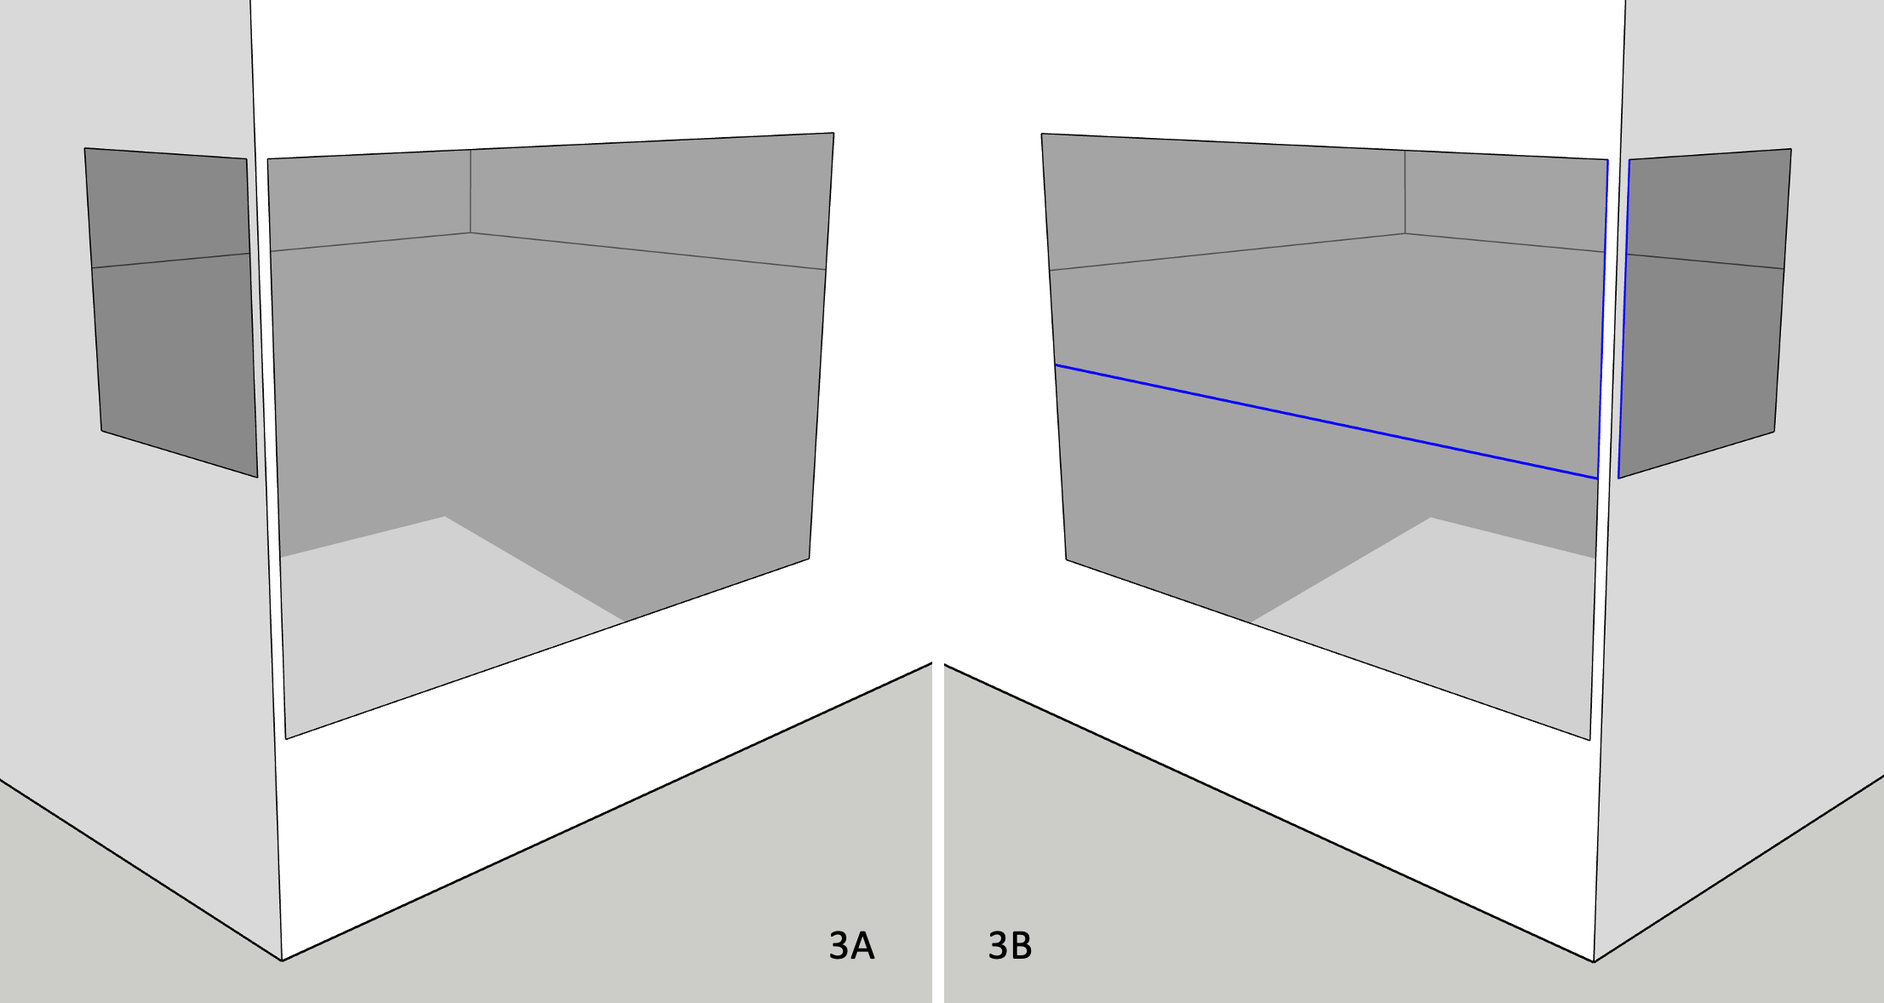
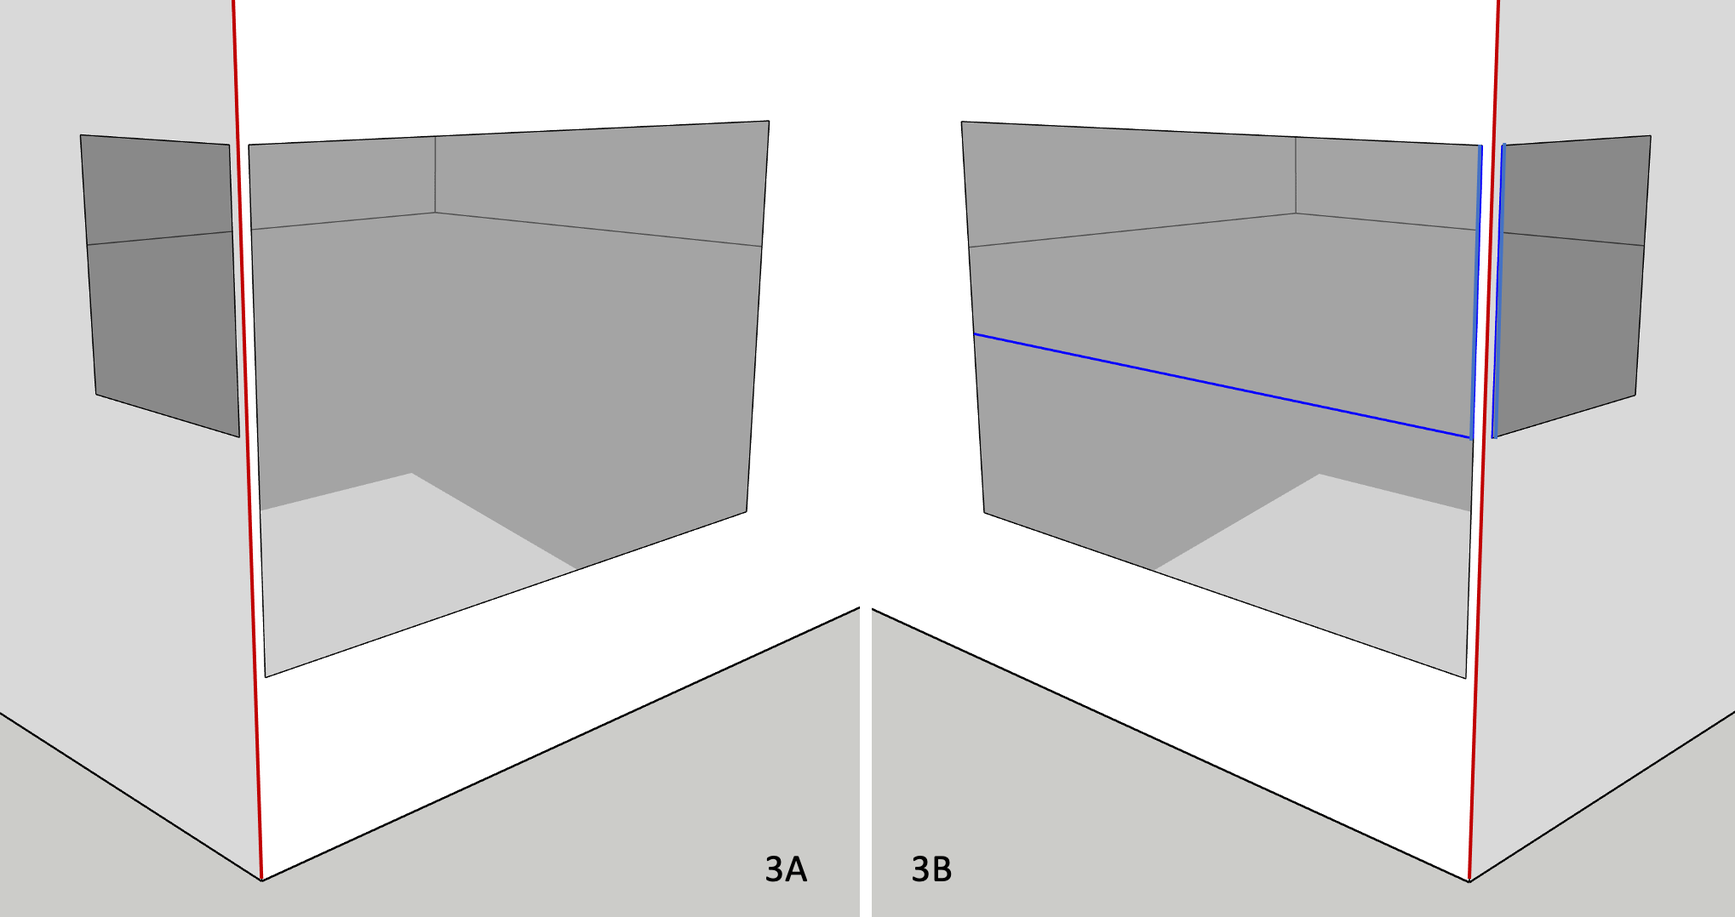
Refines corner figures (Guide)

diff --git a/_site/pages/subs.html b/_site/pages/subs.html
@@ -4,7 +4,7 @@
     <meta charset='utf-8'>
     <meta name="viewport" content="width=device-width, initial-scale=1">
     <meta http-equiv="X-UA-Compatible" content="IE=edge">
-    <link rel="stylesheet" href="/assets/css/style.css?v=02316b4165960c88b139b584b66d646e5b88f25c">
+    <link rel="stylesheet" href="/assets/css/style.css?v=18f43275b4282ef2217a71a03dd4cccfd7f92dd3">
     <link rel="stylesheet" type="text/css" href="/assets/css/print.css" media="print">
     <!--[if lt IE 9]>
     <script src="//html5shiv.googlecode.com/svn/trunk/html5.js"></script>
@@ -100,27 +100,27 @@
 
 <p>A shared edge between two <em>sub surfaces</em> at a corner (e.g. the single vertical edge highlighted in blue in <strong>Figure 2A</strong>) is also tagged by TBD as a (mild) “transition”. Again, any additional heat loss resulting from <em>corner mullions</em> should preferably be factored in NFRC fenestration rating procedures, and thus shouldn’t <em>derate</em> host wall constructions.</p>
 
-<p>In Figure 2A, Topolys <em>breaks</em> its own copy of the original OpenStudio corner edge into 3x distinct vertical segments:</p>
+<p>In Figure 2A, Topolys <em>breaks</em> its own copy of the original, full wall-height OpenStudio corner edge into 3x distinct, vertically-aligned segments:</p>
 
 <ul>
-  <li>1x “corner” edge <strong>above</strong> both windows</li>
   <li>1x “transition” edge, shared <strong>between</strong> both windows (in blue)</li>
+  <li>1x “corner” edge <strong>above</strong> both windows</li>
   <li>1x “corner” edge <strong>below</strong> both windows</li>
 </ul>
 
-<p>By default, any <em>sub surface</em> edge defined within 10 mm of another <em>sub surface</em> edge (or a host surface edge, e.g. a corner) is <em>merged</em> in Topolys as a single, shared edge. If gaps between the corner edge illustrated in <strong>Figure 2B</strong> and both <em>nearby</em> window jambs (on either side, highlighted in blue) are 10 mm wide, then all 3x <em>nearby</em> edges (1x <em>broken</em> corner segment + 2x jambs) would be modelled in Topolys as a single edge (as in Figure 2A). There is no difference between the application of Topolys’ built-in tolerances and what’s illustrated in Figure 2A, even if all 3x edges aren’t perfectly aligned in the OpenStudio model (as in Figure 2B).</p>
+<p>By default, any <em>sub surface</em> edge defined within 10 mm of another <em>sub surface</em> edge (or a host surface edge, e.g. a corner) is <em>merged</em> in Topolys as a single, shared edge. If gaps between the corner edge (highlighted in red in <strong>Figure 2B</strong>) and both <em>nearby</em> window jambs (on either side, highlighted in blue) are 10 mm wide in OpenStudio, then all 3x <em>nearby</em> edges (1x <em>broken</em> corner segment + 2x jambs) would be modelled in Topolys as a single edge (as in Figure 2A). There is no difference between the application of Topolys’ built-in tolerances and what’s illustrated in Figure 2A, even if all 3x edges aren’t perfectly aligned in the OpenStudio model (as in Figure 2B).</p>
 
 <p><img src="../assets/images/corner1.png" alt="Corner Windows" title="Corner Windows" /></p>
 
 <p>When such gaps exceed Topolys’ built-in tolerances (e.g. 25 mm in Figure 2B), TBD instead considers a nearby <em>sub surface</em> edge (e.g. along a corner) as a fenestration “jamb” edge, even though a 25 mm gap between jamb and corner edges makes little sense from a construction perspective. Such gaps often occur as modelling artefacts (often inadvertently) in either legacy OpenStudio models or in those imported from 3rd-party applications. This automated switch, from (mild) “transition” to “jamb” edge types, necessarily means more heat loss from thermal bridging (vs Figure 2A). TBD provides users a <em>sub surface</em> <strong>proximity tolerance</strong> (see <a href="./settings.html" title="TBD settings">menu options</a>) as an optional means to override this default behaviour. If, for instance, a user sets a <em>proximity tolerance</em> of 50 mm (or rather 0.050 m), TBD ignores the aforementioned 25 mm gaps and sets the 2x <em>sub surface</em> jamb edges near the corner as (mild) “transitions” (both edges highlighted in blue in Figure 2B).</p>
 
-<p>There is no difference when <em>derating</em> host wall surfaces, from fenestration perimeters alone, in either figures 2A or 2B. However, the <em>proximity tolerance</em> does not reset the corner edge in Figure 2B as a (mild) “transition”. The corner edge continues uninterrupted, spanning the full wall height - one should expect additional heat loss from the “corner” edge in Figure 2B (vs Figure 2A). This can be corrected by adjusting the “corner” <em>psi</em> factor in TBD - a practical tweak, yet somewhat finicky.</p>
+<p>There is no difference when <em>derating</em> host wall surfaces, from fenestration perimeters alone, in either figures 2A or 2B. However, the <em>proximity tolerance</em> does not reset the corner edge (in red in Figure 2B) as a (mild) “transition”. The corner edge continues uninterrupted, spanning the full wall height - one should expect additional heat loss from the “corner” edge in Figure 2B (vs Figure 2A). This can be corrected by adjusting the “corner” <em>psi</em> factor in TBD - a practical tweak, yet somewhat finicky.</p>
 
 <p>TBD matches edges this way by comparing <em>origin</em> and <em>terminal</em> vertices of any pair of <em>nearby</em> edges. TBD does not apply a <em>proximity tolerance</em> when <em>sub surface</em> edges are mismatched as in <strong>Figure 3A</strong>.</p>
 
 <p><img src="../assets/images/corner2.png" alt="Near corner windows" title="Near corner windows" /></p>
 
-<p>This can be corrected in OpenStudio by splitting for instance the larger window into two smaller (yet <em>aligned</em>) windows (which adds a new horizontal “transition” edge in blue, shown in <strong>Figure 3B</strong>). If the gaps between both <em>upper</em> window jambs and corner edge are within the user-set <em>proximity tolerance</em>, then both nearby window jambs will also be reset as (mild) “transitions” (both vertical edges are highlighted in blue in Figure 3B). Note that the corner edge continues uninterrupted, spanning the full wall height in both figures 3A and 3B, just as in Figure 2B.</p>
+<p>This can be corrected in OpenStudio by splitting for instance the larger window into two smaller (yet <em>aligned</em>) windows (which adds a new horizontal “transition” edge in blue, shown in <strong>Figure 3B</strong>). If the gaps between both <em>upper</em> window jambs and corner edge are within the user-set <em>proximity tolerance</em>, then both nearby window jambs will also be reset as (mild) “transitions” (both vertical edges are highlighted in blue in Figure 3B). Note that the corner edge continues uninterrupted, spanning the full wall height (in red in both figures 3A and 3B, just as in Figure 2B).</p>
 
 <h3 id="multipliers">Multipliers</h3>
 

diff --git a/_site/index.html b/_site/index.html
@@ -4,7 +4,7 @@
     <meta charset='utf-8'>
     <meta name="viewport" content="width=device-width, initial-scale=1">
     <meta http-equiv="X-UA-Compatible" content="IE=edge">
-    <link rel="stylesheet" href="/assets/css/style.css?v=02316b4165960c88b139b584b66d646e5b88f25c">
+    <link rel="stylesheet" href="/assets/css/style.css?v=18f43275b4282ef2217a71a03dd4cccfd7f92dd3">
     <link rel="stylesheet" type="text/css" href="/assets/css/print.css" media="print">
     <!--[if lt IE 9]>
     <script src="//html5shiv.googlecode.com/svn/trunk/html5.js"></script>

diff --git a/_site/pages/custom.html b/_site/pages/custom.html
@@ -4,7 +4,7 @@
     <meta charset='utf-8'>
     <meta name="viewport" content="width=device-width, initial-scale=1">
     <meta http-equiv="X-UA-Compatible" content="IE=edge">
-    <link rel="stylesheet" href="/assets/css/style.css?v=02316b4165960c88b139b584b66d646e5b88f25c">
+    <link rel="stylesheet" href="/assets/css/style.css?v=18f43275b4282ef2217a71a03dd4cccfd7f92dd3">
     <link rel="stylesheet" type="text/css" href="/assets/css/print.css" media="print">
     <!--[if lt IE 9]>
     <script src="//html5shiv.googlecode.com/svn/trunk/html5.js"></script>

diff --git a/_site/pages/kiva.html b/_site/pages/kiva.html
@@ -4,7 +4,7 @@
     <meta charset='utf-8'>
     <meta name="viewport" content="width=device-width, initial-scale=1">
     <meta http-equiv="X-UA-Compatible" content="IE=edge">
-    <link rel="stylesheet" href="/assets/css/style.css?v=02316b4165960c88b139b584b66d646e5b88f25c">
+    <link rel="stylesheet" href="/assets/css/style.css?v=18f43275b4282ef2217a71a03dd4cccfd7f92dd3">
     <link rel="stylesheet" type="text/css" href="/assets/css/print.css" media="print">
     <!--[if lt IE 9]>
     <script src="//html5shiv.googlecode.com/svn/trunk/html5.js"></script>

diff --git a/_site/pages/launch.html b/_site/pages/launch.html
@@ -4,7 +4,7 @@
     <meta charset='utf-8'>
     <meta name="viewport" content="width=device-width, initial-scale=1">
     <meta http-equiv="X-UA-Compatible" content="IE=edge">
-    <link rel="stylesheet" href="/assets/css/style.css?v=02316b4165960c88b139b584b66d646e5b88f25c">
+    <link rel="stylesheet" href="/assets/css/style.css?v=18f43275b4282ef2217a71a03dd4cccfd7f92dd3">
     <link rel="stylesheet" type="text/css" href="/assets/css/print.css" media="print">
     <!--[if lt IE 9]>
     <script src="//html5shiv.googlecode.com/svn/trunk/html5.js"></script>

diff --git a/_site/pages/reports.html b/_site/pages/reports.html
@@ -4,7 +4,7 @@
     <meta charset='utf-8'>
     <meta name="viewport" content="width=device-width, initial-scale=1">
     <meta http-equiv="X-UA-Compatible" content="IE=edge">
-    <link rel="stylesheet" href="/assets/css/style.css?v=02316b4165960c88b139b584b66d646e5b88f25c">
+    <link rel="stylesheet" href="/assets/css/style.css?v=18f43275b4282ef2217a71a03dd4cccfd7f92dd3">
     <link rel="stylesheet" type="text/css" href="/assets/css/print.css" media="print">
     <!--[if lt IE 9]>
     <script src="//html5shiv.googlecode.com/svn/trunk/html5.js"></script>

diff --git a/_site/pages/settings.html b/_site/pages/settings.html
@@ -4,7 +4,7 @@
     <meta charset='utf-8'>
     <meta name="viewport" content="width=device-width, initial-scale=1">
     <meta http-equiv="X-UA-Compatible" content="IE=edge">
-    <link rel="stylesheet" href="/assets/css/style.css?v=02316b4165960c88b139b584b66d646e5b88f25c">
+    <link rel="stylesheet" href="/assets/css/style.css?v=18f43275b4282ef2217a71a03dd4cccfd7f92dd3">
     <link rel="stylesheet" type="text/css" href="/assets/css/print.css" media="print">
     <!--[if lt IE 9]>
     <script src="//html5shiv.googlecode.com/svn/trunk/html5.js"></script>

diff --git a/_site/pages/ua.html b/_site/pages/ua.html
@@ -4,7 +4,7 @@
     <meta charset='utf-8'>
     <meta name="viewport" content="width=device-width, initial-scale=1">
     <meta http-equiv="X-UA-Compatible" content="IE=edge">
-    <link rel="stylesheet" href="/assets/css/style.css?v=02316b4165960c88b139b584b66d646e5b88f25c">
+    <link rel="stylesheet" href="/assets/css/style.css?v=18f43275b4282ef2217a71a03dd4cccfd7f92dd3">
     <link rel="stylesheet" type="text/css" href="/assets/css/print.css" media="print">
     <!--[if lt IE 9]>
     <script src="//html5shiv.googlecode.com/svn/trunk/html5.js"></script>

diff --git a/_site/pages/ut.html b/_site/pages/ut.html
@@ -4,7 +4,7 @@
     <meta charset='utf-8'>
     <meta name="viewport" content="width=device-width, initial-scale=1">
     <meta http-equiv="X-UA-Compatible" content="IE=edge">
-    <link rel="stylesheet" href="/assets/css/style.css?v=02316b4165960c88b139b584b66d646e5b88f25c">
+    <link rel="stylesheet" href="/assets/css/style.css?v=18f43275b4282ef2217a71a03dd4cccfd7f92dd3">
     <link rel="stylesheet" type="text/css" href="/assets/css/print.css" media="print">
     <!--[if lt IE 9]>
     <script src="//html5shiv.googlecode.com/svn/trunk/html5.js"></script>

diff --git a/_site/pages/subs.md b/_site/pages/subs.md
@@ -34,25 +34,25 @@ _Frame & divider_ properties also allow outside and inside __reveals__ (i.e. _su
 
 A shared edge between two _sub surfaces_ at a corner (e.g. the single vertical edge highlighted in blue in __Figure 2A__) is also tagged by TBD as a (mild) "transition". Again, any additional heat loss resulting from _corner mullions_ should preferably be factored in NFRC fenestration rating procedures, and thus shouldn't _derate_ host wall constructions.  
 
-In Figure 2A, Topolys _breaks_ its own copy of the original OpenStudio corner edge into 3x distinct vertical segments:  
+In Figure 2A, Topolys _breaks_ its own copy of the original, full wall-height OpenStudio corner edge into 3x distinct, vertically-aligned segments:  
 
-- 1x "corner" edge __above__ both windows
 - 1x "transition" edge, shared __between__ both windows (in blue)
+- 1x "corner" edge __above__ both windows
 - 1x "corner" edge __below__ both windows  
 
-By default, any _sub surface_ edge defined within 10 mm of another _sub surface_ edge (or a host surface edge, e.g. a corner) is _merged_ in Topolys as a single, shared edge. If gaps between the corner edge illustrated in __Figure 2B__ and both _nearby_ window jambs (on either side, highlighted in blue) are 10 mm wide, then all 3x _nearby_ edges (1x _broken_ corner segment + 2x jambs) would be modelled in Topolys as a single edge (as in Figure 2A). There is no difference between the application of Topolys' built-in tolerances and what's illustrated in Figure 2A, even if all 3x edges aren't perfectly aligned in the OpenStudio model (as in Figure 2B).
+By default, any _sub surface_ edge defined within 10 mm of another _sub surface_ edge (or a host surface edge, e.g. a corner) is _merged_ in Topolys as a single, shared edge. If gaps between the corner edge (highlighted in red in __Figure 2B__) and both _nearby_ window jambs (on either side, highlighted in blue) are 10 mm wide in OpenStudio, then all 3x _nearby_ edges (1x _broken_ corner segment + 2x jambs) would be modelled in Topolys as a single edge (as in Figure 2A). There is no difference between the application of Topolys' built-in tolerances and what's illustrated in Figure 2A, even if all 3x edges aren't perfectly aligned in the OpenStudio model (as in Figure 2B).
 
 ![Corner Windows](../assets/images/corner1.png "Corner Windows")
 
 When such gaps exceed Topolys' built-in tolerances (e.g. 25 mm in Figure 2B), TBD instead considers a nearby _sub surface_ edge (e.g. along a corner) as a fenestration "jamb" edge, even though a 25 mm gap between jamb and corner edges makes little sense from a construction perspective. Such gaps often occur as modelling artefacts (often inadvertently) in either legacy OpenStudio models or in those imported from 3rd-party applications. This automated switch, from (mild) "transition" to "jamb" edge types, necessarily means more heat loss from thermal bridging (vs Figure 2A). TBD provides users a _sub surface_ __proximity tolerance__ (see [menu options](./settings.html "TBD settings")) as an optional means to override this default behaviour. If, for instance, a user sets a _proximity tolerance_ of 50 mm (or rather 0.050 m), TBD ignores the aforementioned 25 mm gaps and sets the 2x _sub surface_ jamb edges near the corner as (mild) "transitions" (both edges highlighted in blue in Figure 2B).
 
-There is no difference when _derating_ host wall surfaces, from fenestration perimeters alone, in either figures 2A or 2B. However, the _proximity tolerance_ does not reset the corner edge in Figure 2B as a (mild) "transition". The corner edge continues uninterrupted, spanning the full wall height - one should expect additional heat loss from the "corner" edge in Figure 2B (vs Figure 2A). This can be corrected by adjusting the "corner" _psi_ factor in TBD - a practical tweak, yet somewhat finicky.
+There is no difference when _derating_ host wall surfaces, from fenestration perimeters alone, in either figures 2A or 2B. However, the _proximity tolerance_ does not reset the corner edge (in red in Figure 2B) as a (mild) "transition". The corner edge continues uninterrupted, spanning the full wall height - one should expect additional heat loss from the "corner" edge in Figure 2B (vs Figure 2A). This can be corrected by adjusting the "corner" _psi_ factor in TBD - a practical tweak, yet somewhat finicky.
 
 TBD matches edges this way by comparing _origin_ and _terminal_ vertices of any pair of _nearby_ edges. TBD does not apply a _proximity tolerance_ when _sub surface_ edges are mismatched as in __Figure 3A__.  
 
 ![Near corner windows](../assets/images/corner2.png "Near corner windows")  
 
-This can be corrected in OpenStudio by splitting for instance the larger window into two smaller (yet _aligned_) windows (which adds a new horizontal "transition" edge in blue, shown in __Figure 3B__). If the gaps between both _upper_ window jambs and corner edge are within the user-set _proximity tolerance_, then both nearby window jambs will also be reset as (mild) "transitions" (both vertical edges are highlighted in blue in Figure 3B). Note that the corner edge continues uninterrupted, spanning the full wall height in both figures 3A and 3B, just as in Figure 2B.
+This can be corrected in OpenStudio by splitting for instance the larger window into two smaller (yet _aligned_) windows (which adds a new horizontal "transition" edge in blue, shown in __Figure 3B__). If the gaps between both _upper_ window jambs and corner edge are within the user-set _proximity tolerance_, then both nearby window jambs will also be reset as (mild) "transitions" (both vertical edges are highlighted in blue in Figure 3B). Note that the corner edge continues uninterrupted, spanning the full wall height (in red in both figures 3A and 3B, just as in Figure 2B).
 
 ### Multipliers
 

diff --git a/pages/subs.md b/pages/subs.md
@@ -34,25 +34,25 @@ _Frame & divider_ properties also allow outside and inside __reveals__ (i.e. _su
 
 A shared edge between two _sub surfaces_ at a corner (e.g. the single vertical edge highlighted in blue in __Figure 2A__) is also tagged by TBD as a (mild) "transition". Again, any additional heat loss resulting from _corner mullions_ should preferably be factored in NFRC fenestration rating procedures, and thus shouldn't _derate_ host wall constructions.  
 
-In Figure 2A, Topolys _breaks_ its own copy of the original OpenStudio corner edge into 3x distinct vertical segments:  
+In Figure 2A, Topolys _breaks_ its own copy of the original, full wall-height OpenStudio corner edge into 3x distinct, vertically-aligned segments:  
 
-- 1x "corner" edge __above__ both windows
 - 1x "transition" edge, shared __between__ both windows (in blue)
+- 1x "corner" edge __above__ both windows
 - 1x "corner" edge __below__ both windows  
 
-By default, any _sub surface_ edge defined within 10 mm of another _sub surface_ edge (or a host surface edge, e.g. a corner) is _merged_ in Topolys as a single, shared edge. If gaps between the corner edge illustrated in __Figure 2B__ and both _nearby_ window jambs (on either side, highlighted in blue) are 10 mm wide, then all 3x _nearby_ edges (1x _broken_ corner segment + 2x jambs) would be modelled in Topolys as a single edge (as in Figure 2A). There is no difference between the application of Topolys' built-in tolerances and what's illustrated in Figure 2A, even if all 3x edges aren't perfectly aligned in the OpenStudio model (as in Figure 2B).
+By default, any _sub surface_ edge defined within 10 mm of another _sub surface_ edge (or a host surface edge, e.g. a corner) is _merged_ in Topolys as a single, shared edge. If gaps between the corner edge (highlighted in red in __Figure 2B__) and both _nearby_ window jambs (on either side, highlighted in blue) are 10 mm wide in OpenStudio, then all 3x _nearby_ edges (1x _broken_ corner segment + 2x jambs) would be modelled in Topolys as a single edge (as in Figure 2A). There is no difference between the application of Topolys' built-in tolerances and what's illustrated in Figure 2A, even if all 3x edges aren't perfectly aligned in the OpenStudio model (as in Figure 2B).
 
 ![Corner Windows](../assets/images/corner1.png "Corner Windows")
 
 When such gaps exceed Topolys' built-in tolerances (e.g. 25 mm in Figure 2B), TBD instead considers a nearby _sub surface_ edge (e.g. along a corner) as a fenestration "jamb" edge, even though a 25 mm gap between jamb and corner edges makes little sense from a construction perspective. Such gaps often occur as modelling artefacts (often inadvertently) in either legacy OpenStudio models or in those imported from 3rd-party applications. This automated switch, from (mild) "transition" to "jamb" edge types, necessarily means more heat loss from thermal bridging (vs Figure 2A). TBD provides users a _sub surface_ __proximity tolerance__ (see [menu options](./settings.html "TBD settings")) as an optional means to override this default behaviour. If, for instance, a user sets a _proximity tolerance_ of 50 mm (or rather 0.050 m), TBD ignores the aforementioned 25 mm gaps and sets the 2x _sub surface_ jamb edges near the corner as (mild) "transitions" (both edges highlighted in blue in Figure 2B).
 
-There is no difference when _derating_ host wall surfaces, from fenestration perimeters alone, in either figures 2A or 2B. However, the _proximity tolerance_ does not reset the corner edge in Figure 2B as a (mild) "transition". The corner edge continues uninterrupted, spanning the full wall height - one should expect additional heat loss from the "corner" edge in Figure 2B (vs Figure 2A). This can be corrected by adjusting the "corner" _psi_ factor in TBD - a practical tweak, yet somewhat finicky.
+There is no difference when _derating_ host wall surfaces, from fenestration perimeters alone, in either figures 2A or 2B. However, the _proximity tolerance_ does not reset the corner edge (in red in Figure 2B) as a (mild) "transition". The corner edge continues uninterrupted, spanning the full wall height - one should expect additional heat loss from the "corner" edge in Figure 2B (vs Figure 2A). This can be corrected by adjusting the "corner" _psi_ factor in TBD - a practical tweak, yet somewhat finicky.
 
 TBD matches edges this way by comparing _origin_ and _terminal_ vertices of any pair of _nearby_ edges. TBD does not apply a _proximity tolerance_ when _sub surface_ edges are mismatched as in __Figure 3A__.  
 
 ![Near corner windows](../assets/images/corner2.png "Near corner windows")  
 
-This can be corrected in OpenStudio by splitting for instance the larger window into two smaller (yet _aligned_) windows (which adds a new horizontal "transition" edge in blue, shown in __Figure 3B__). If the gaps between both _upper_ window jambs and corner edge are within the user-set _proximity tolerance_, then both nearby window jambs will also be reset as (mild) "transitions" (both vertical edges are highlighted in blue in Figure 3B). Note that the corner edge continues uninterrupted, spanning the full wall height in both figures 3A and 3B, just as in Figure 2B.
+This can be corrected in OpenStudio by splitting for instance the larger window into two smaller (yet _aligned_) windows (which adds a new horizontal "transition" edge in blue, shown in __Figure 3B__). If the gaps between both _upper_ window jambs and corner edge are within the user-set _proximity tolerance_, then both nearby window jambs will also be reset as (mild) "transitions" (both vertical edges are highlighted in blue in Figure 3B). Note that the corner edge continues uninterrupted, spanning the full wall height (in red in both figures 3A and 3B, just as in Figure 2B).
 
 ### Multipliers
 
